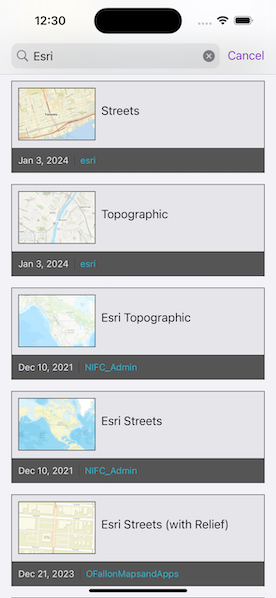
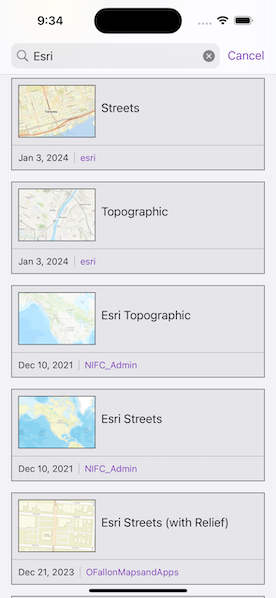
Update coloring.
https://github.com/Esri/arcgis-maps-sdk-swift-samples/pull/330#discussion_r1456943405

diff --git a/Shared/Samples/Search for web map/SearchForWebMapView.Views.swift b/Shared/Samples/Search for web map/SearchForWebMapView.Views.swift
@@ -79,26 +79,27 @@ extension SearchForWebMapView {
                     Spacer()
                 }
                 
+                Divider()
+                    .overlay(.black)
+                
                 HStack {
                     if let modificationDate = item.modificationDate {
                         Text(modificationDate, format: Date.FormatStyle(date: .abbreviated, time: .omitted))
-                            .foregroundColor(Color(.systemGray5))
                     } else {
                         Text("Date: Unknown")
-                            .foregroundColor(Color(.systemGray5))
                     }
                     
                     Divider()
                         .overlay(.black)
                     
                     Text(item.owner)
-                        .foregroundColor(.teal)
+                        .foregroundColor(.accentColor)
                     
                     Spacer()
                 }
                 .font(.footnote)
-                .padding(10)
-                .background(Color(.darkGray))
+                .padding(.top, 2)
+                .padding([.horizontal, .bottom], 10)
             }
             .background(Color(.systemGray5))
             .border(Color(.darkGray))
